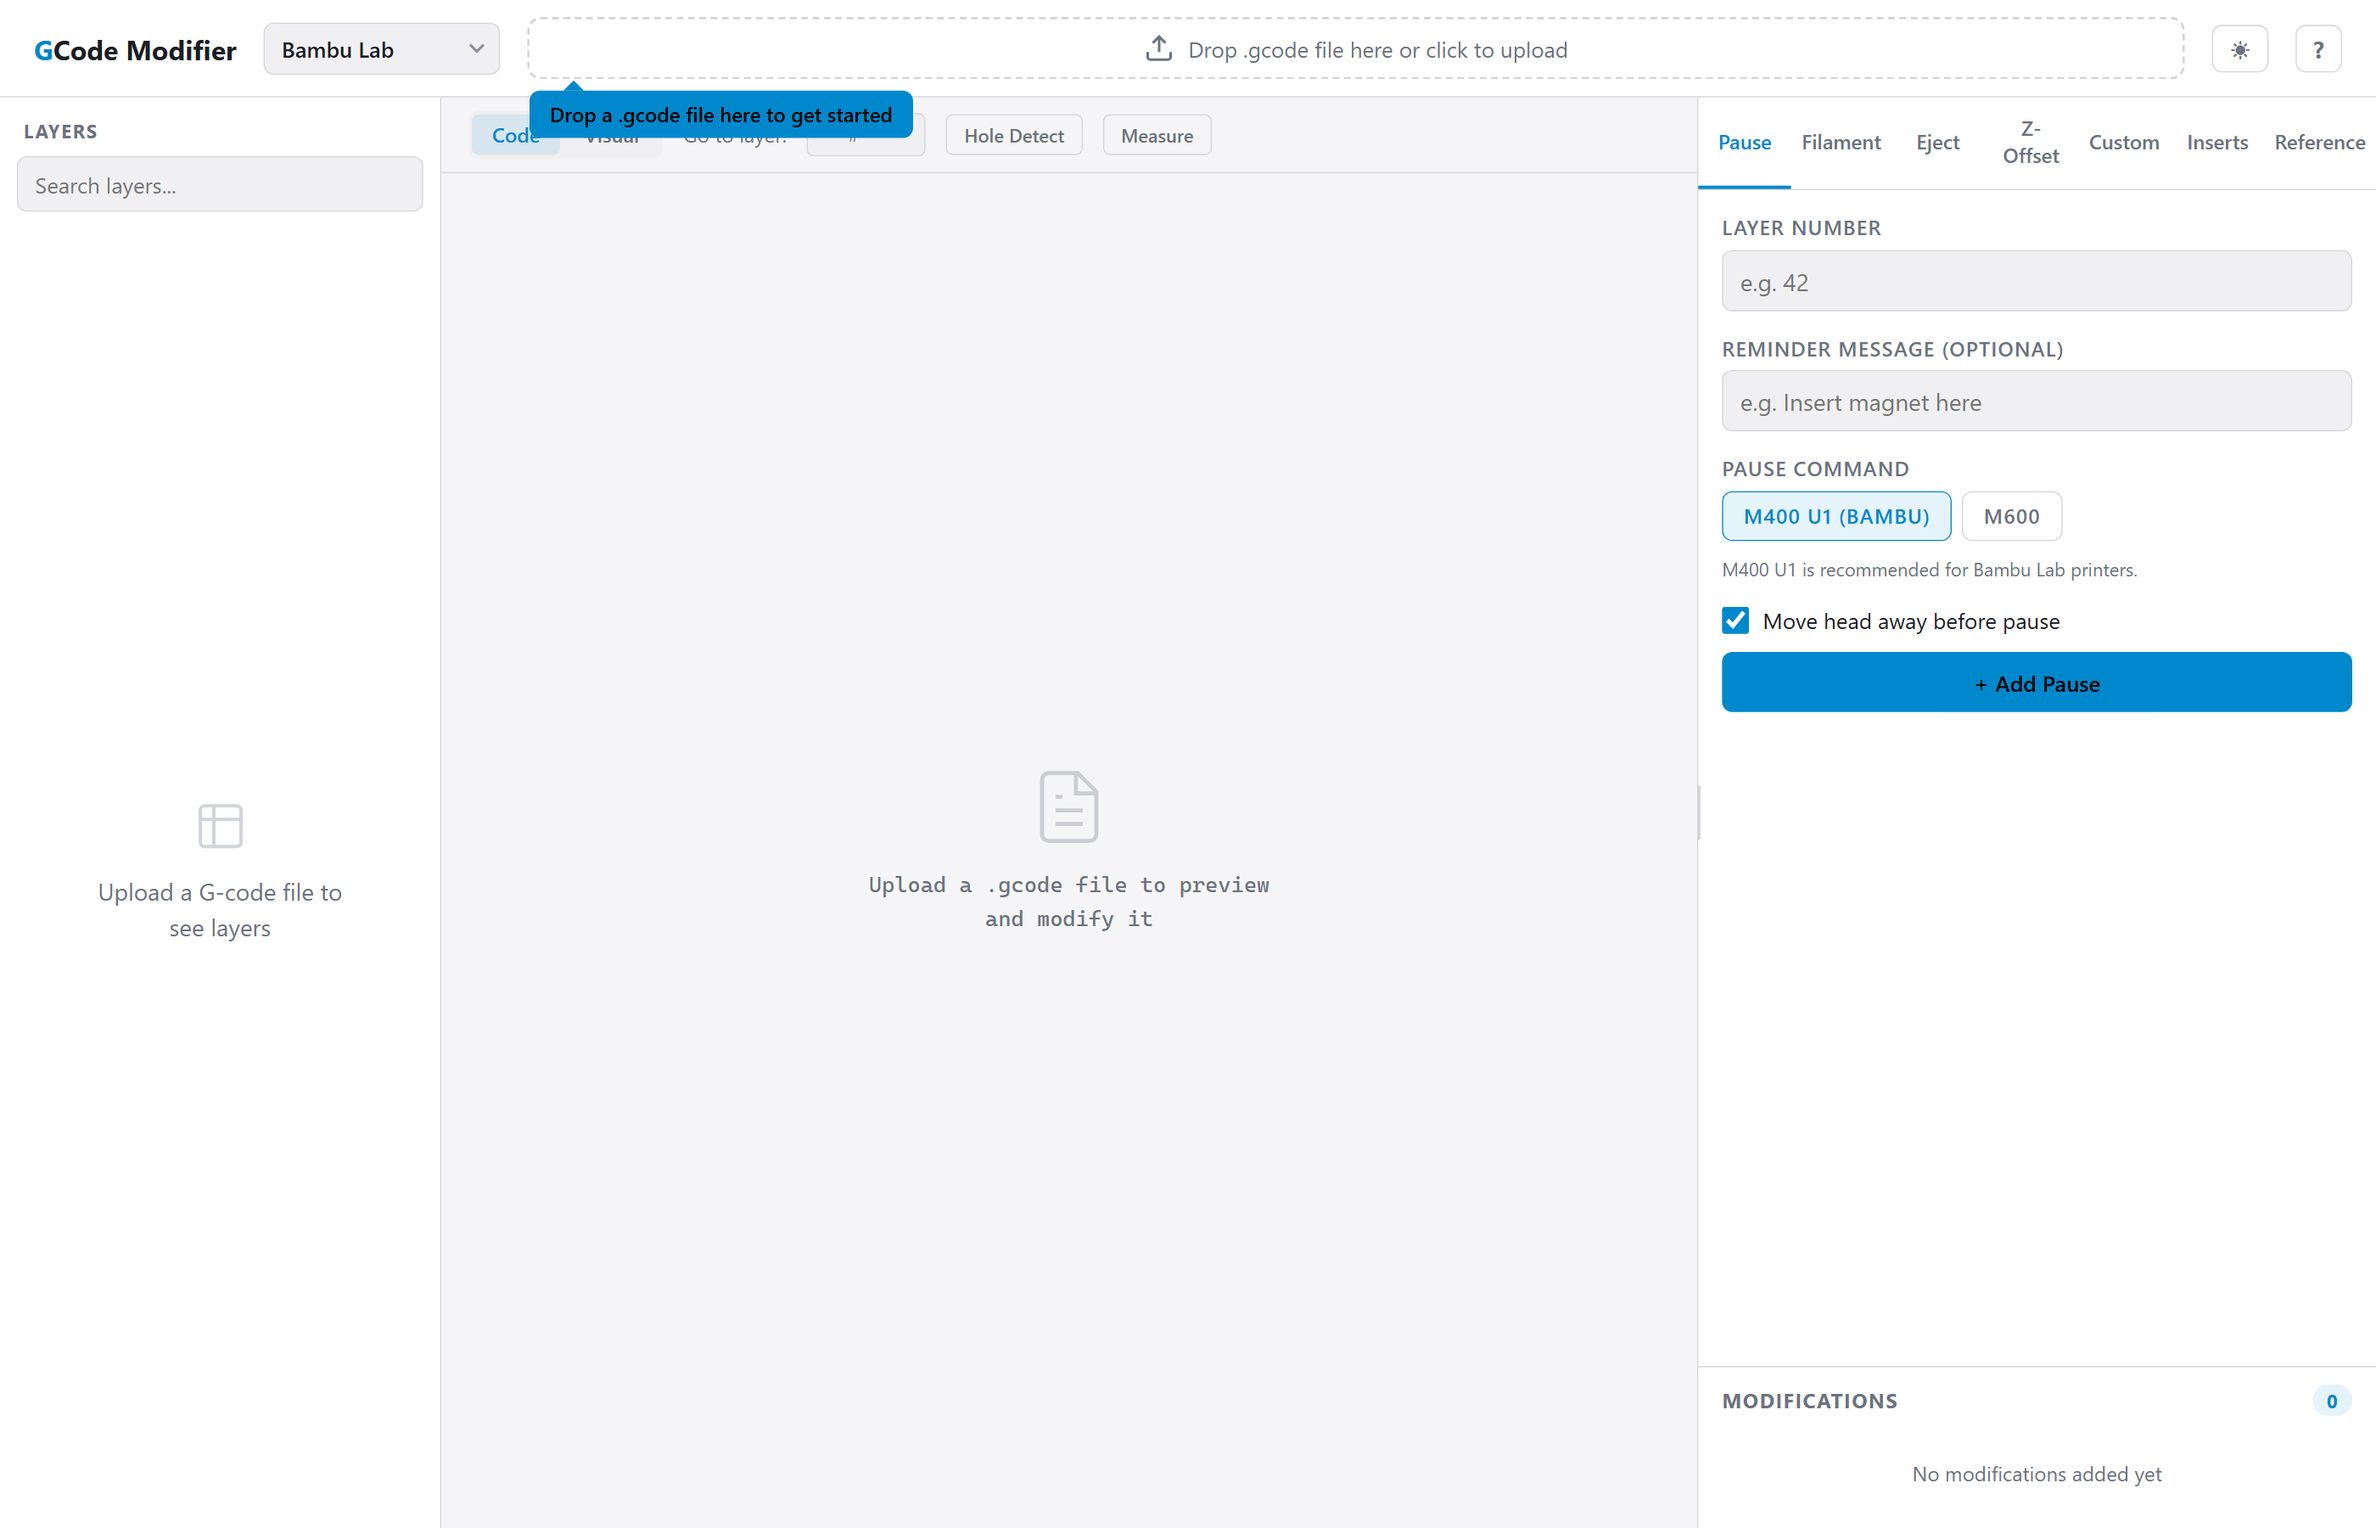
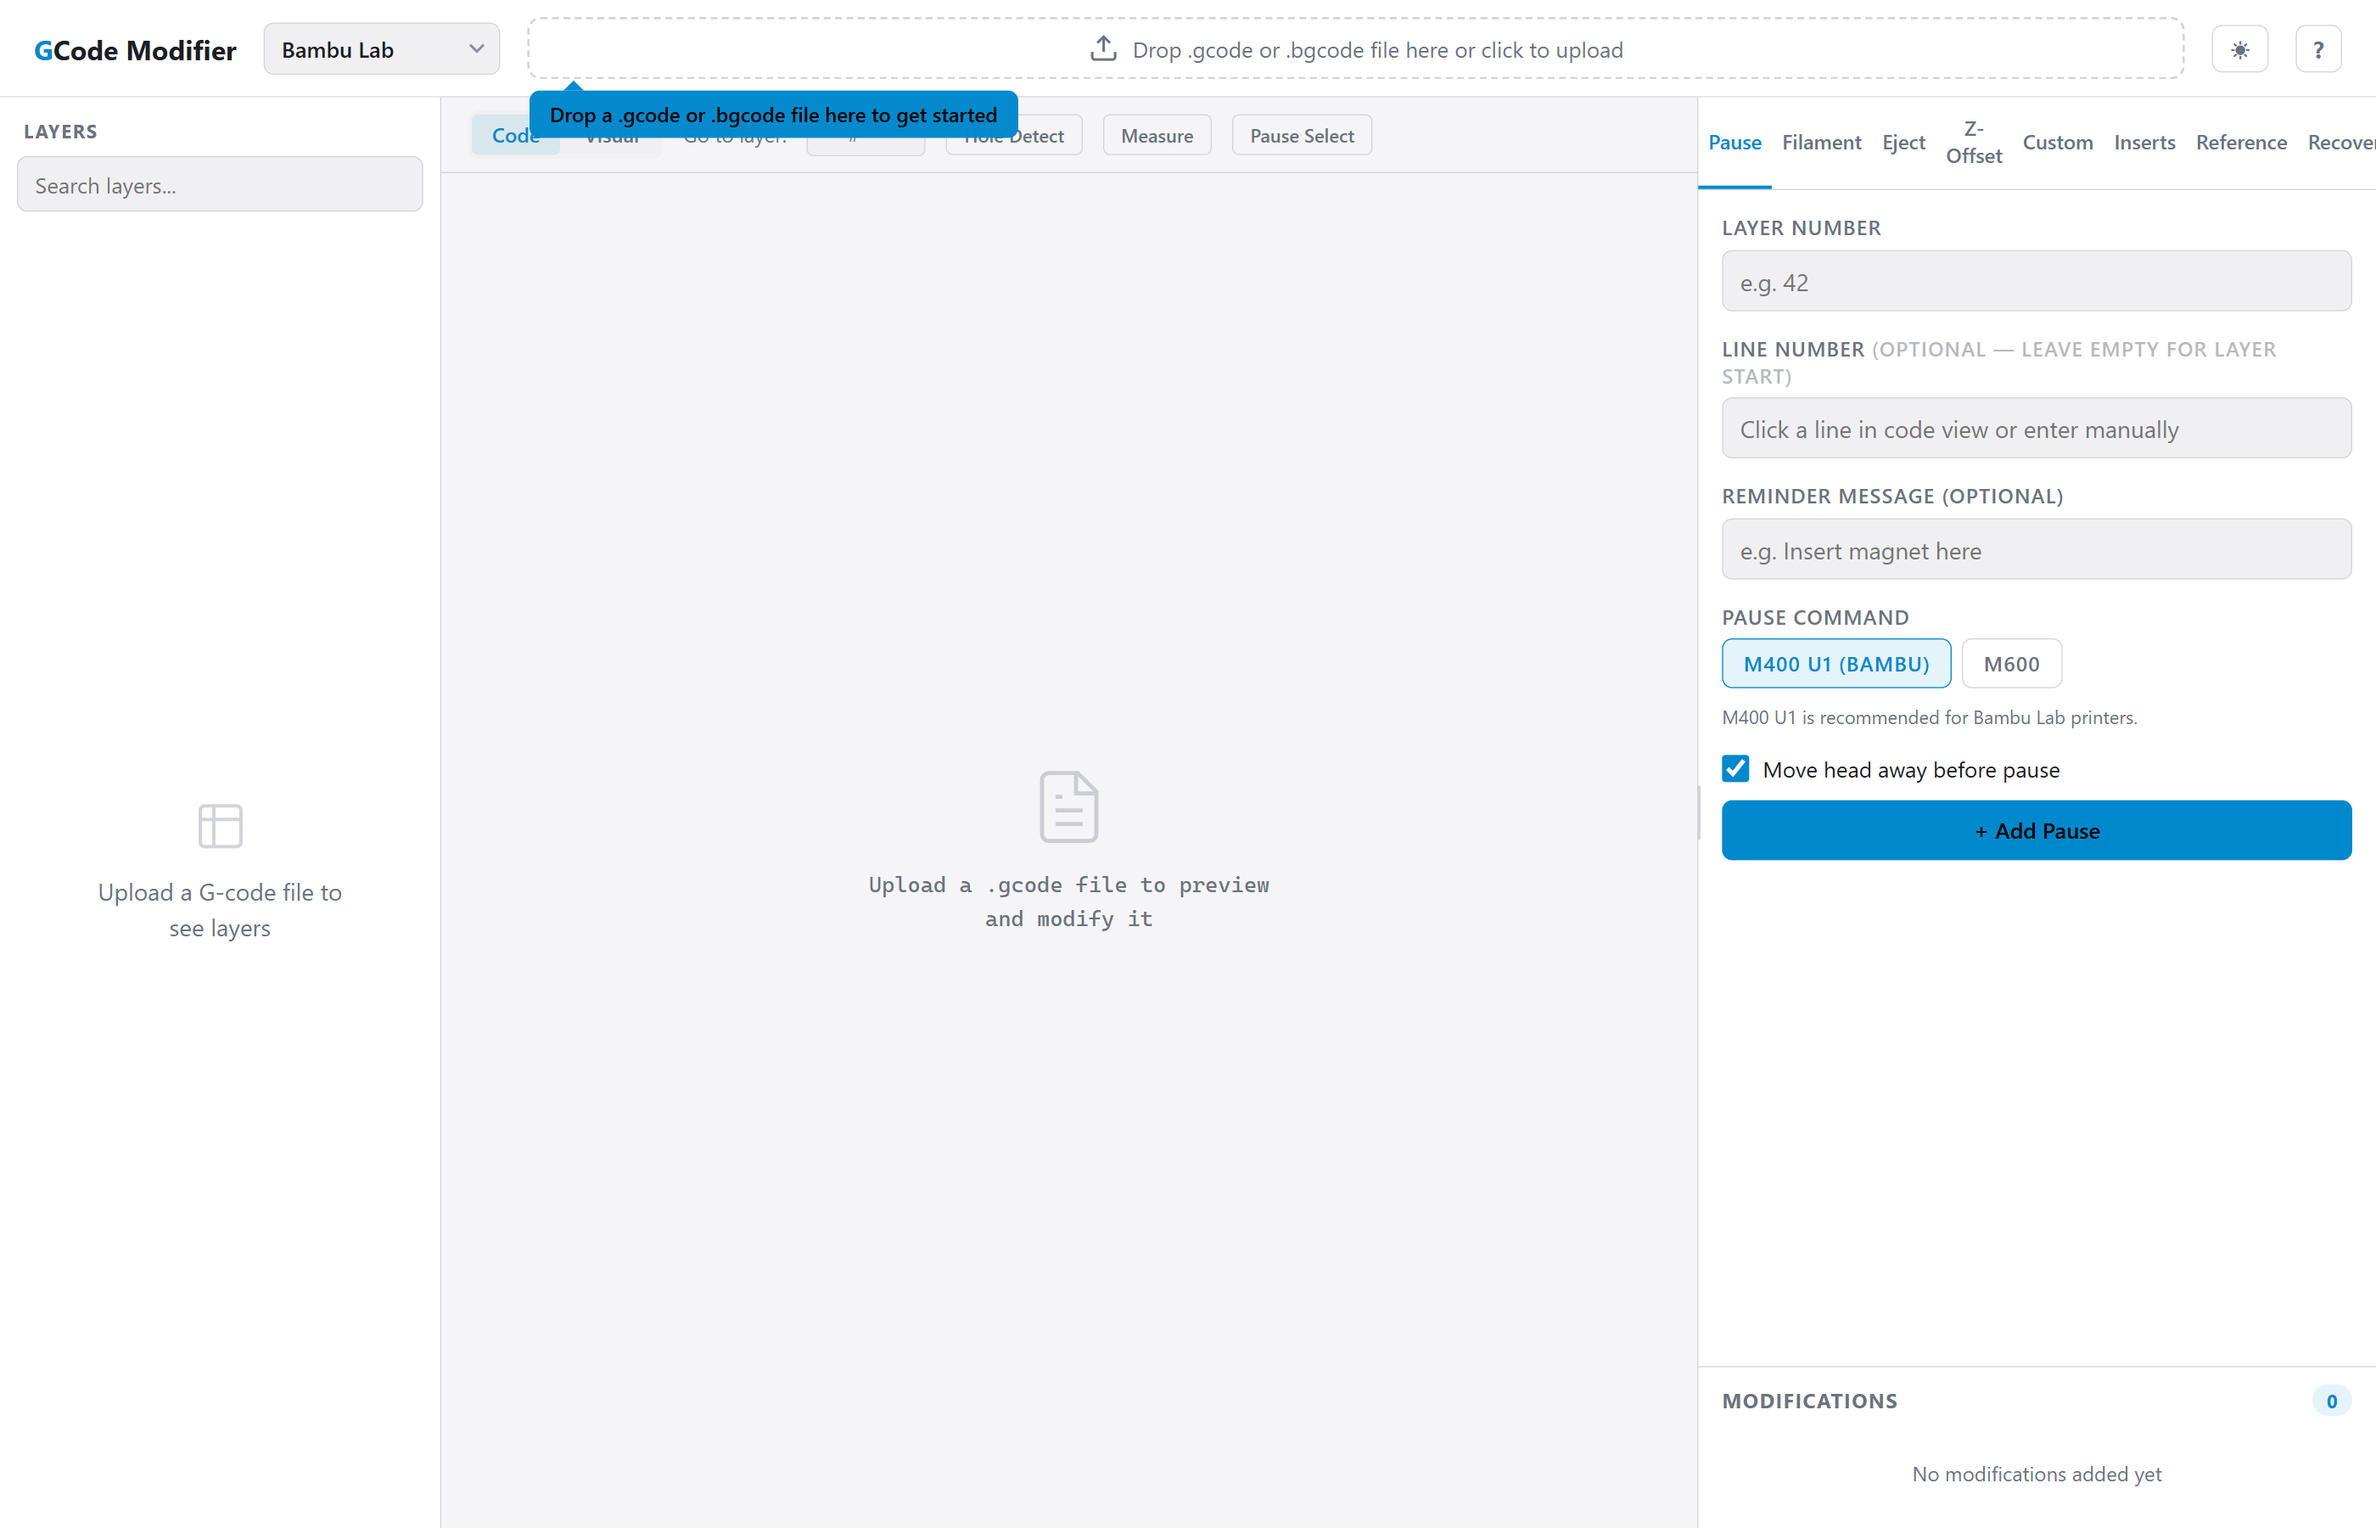
updating README and screenshots with new features

diff --git a/README.md b/README.md
@@ -18,14 +18,25 @@ The gcode files provided are for demonstration purposes and should not be upload
 
 # G-Code Modifier
 
-A browser-based G-code editor for 3D printing. Load a `.gcode` file, visually inspect layers in 3D, add modifications (pauses, filament changes, Z-offsets, custom commands), measure distances, detect holes for insert placement, and export the modified file — all without installing anything.
+A browser-based G-code editor for 3D printing. Visually inspect layers in 3D, add modifications (pauses, filament changes, Z-offsets, custom commands), simulate prints move-by-move, detect holes for insert placement, and export the modified file — all without installing anything.
 
+**[Try it live](https://little-did-i-know.github.io/Gcode/gcode-modifier.html)** — no download required.
 
-![Empty State](screenshots/01-empty-state.png)
+![G-Code Modifier 3D View](screenshots/03-visual-view.png)
+
+## Feature Highlights
+
+| | |
+|---|---|
+| ![3D Visualization](screenshots/03-visual-view.png) **3D Layer Visualization** — WebGL rendering with motion-type coloring, travel moves, and interactive camera controls | ![Hole Detection](screenshots/10-hole-detection.png) **Automatic Hole Detection** — Scan all layers to find holes, calculate insert depths, and add pauses automatically |
+| ![Playback](screenshots/16-playback.png) **Print Simulation** — Play through the print move-by-move with speed control and pause markers | ![Code View](screenshots/02-code-view.png) **Syntax-Highlighted Code** — Browse G-code with search, highlighting, and modification preview |
+| ![Modifications](screenshots/05-visual-with-mod.png) **Layer Modifications** — Pauses, filament changes, Z-offsets, eject sequences, recovery, and custom G-code | ![Reference](screenshots/12-reference-tab.png) **Built-in G-code Reference** — 40+ commands with firmware-specific notes and click-to-insert |
 
 ## Getting Started
 
-Open `gcode-modifier.html` in any modern browser (WebGL2 required). No server, build step, or dependencies required.
+**Quickest way:** Open the **[live version](https://little-did-i-know.github.io/Gcode/gcode-modifier.html)** in your browser — nothing to download.
+
+**Or run locally:** Open `gcode-modifier.html` in any modern browser (WebGL2 required). No server, build step, or dependencies needed.
 
 1. **Select your firmware** from the dropdown (Bambu Lab, Klipper, Marlin, or RepRapFirmware). This determines which pause and filament-change commands are available.
 2. **Load a file** by dragging a `.gcode` / `.gco` / `.g` file onto the drop zone, or click to browse.
@@ -106,6 +117,9 @@ Toggle between two views using the **Code** / **Visual** buttons:
   - **F key**: reset camera to default view.
 - Layer slider at the bottom for quick layer scrubbing (cumulative — layers build up).
 - Modification banners appear at the top when the current layer has queued modifications.
+- **Motion type legend**: A collapsible panel showing color-coded motion types detected in the file (outer wall, inner wall, infill, etc.). Click checkboxes to show/hide individual types. Click color swatches to customize colors. Use "Show all types" to see every available type, or "Reset" to restore defaults.
+
+![Motion Type Legend](screenshots/17-motion-legend.png)
 
 ![3D Visual View](screenshots/03-visual-view.png)
 
@@ -124,7 +138,7 @@ The parser auto-detects the slicer from file header comments and adapts its pars
 | **ideaMaker** | `;LAYER:N` | Standard markers | Supported         |
 | **Unknown** | Falls back to `;LAYER:N` heuristic | Generic | Best-effort       |
 
-\* Prusa slicer by default exports binary gcode files, to export plain gcode uncheck the following box in your preferences:
+> \* Prusa slicer by default exports binary gcode files, to export plain gcode uncheck the following box in your preferences
 
 ![Prusa Export Settings](screenshots/14-Uncheck%20this%20box%20to%20export%20pure%20gcode.png)
 
@@ -203,6 +217,8 @@ Append an auto-eject sequence to the end of the G-code. Only one eject modificat
 - **Home Z axis**: homes the Z axis after ejecting.
 - **Loop mode**: adds a comment noting that the print should restart (actual looping requires external automation or firmware support).
 
+![Eject Tab](screenshots/19-eject-tab.png)
+
 ### Z-Offset
 
 Apply a vertical offset to all Z moves within a layer range. Useful for compensating for embedded inserts that change the effective layer height.
@@ -220,6 +236,15 @@ Insert arbitrary G-code at a specific layer or at the end of the file.
 
 - **Layer Number**: enter a layer number, or `end` to append at the file's end.
 - **Custom G-Code**: multi-line textarea — each line is inserted as-is, wrapped in `; === CUSTOM G-CODE ===` / `; === END CUSTOM ===` comment markers.
+
+### Print Recovery
+
+Resume a failed print from a specific layer. Recovery mode strips all G-code before the target layer and adjusts Z-heights so the print starts at the bed surface — print the recovery, then glue the two halves together.
+
+![Print Recovery](screenshots/18-recovery-tab.png)
+
+- **Resume from Layer**: Enter the layer number where the print failed, or specify the Z-height and the layer is calculated automatically.
+- The exported file is named `<original>_recovery_L<N>.gcode` for easy identification.
 
 ### G-Code Reference
 
@@ -273,6 +298,19 @@ Measure point-to-point distance on the current layer.
 3. The distance in mm is shown as a toast notification.
 4. Click again to start a new measurement.
 
+## Print Simulation
+
+Play back the print move-by-move to visualize how each layer is built up.
+
+![Print Simulation](screenshots/16-playback.png)
+
+- **Play / Pause**: Click the play button or press `P` to start/stop the simulation.
+- **Speed control**: Adjust the speed slider to control moves per second.
+- **Step through**: Use the skip buttons to jump to the previous or next layer.
+- **Progress bar**: Shows simulation progress with click-to-seek. Yellow tick marks indicate pause points.
+- **Pause detection**: The simulation automatically stops at pause modifications and flashes a notification, then resumes when you press play again.
+- **Auto-layer advance**: When the current layer finishes, the simulation automatically advances to the next layer and continues playing through the entire print.
+
 ## Undo / Redo
 
 All modification changes (add, remove, reorder) are tracked in an undo stack (up to 50 entries).
@@ -312,8 +350,9 @@ Toggle between dark and light themes using the sun/moon button in the header. Th
 | `Space` | Toggle Code/Visual view |
 | `[` / `]` | Previous/Next layer |
 | Arrow keys | Previous/Next layer |
-| `1`–`7` | Switch tool tab |
+| `1`–`8` | Switch tool tab |
 | `F` | Reset camera |
+| `P` | Play/Pause simulation |
 | `?` | Show keyboard shortcuts help |
 
 Press `?` at any time to see the shortcuts overlay.
